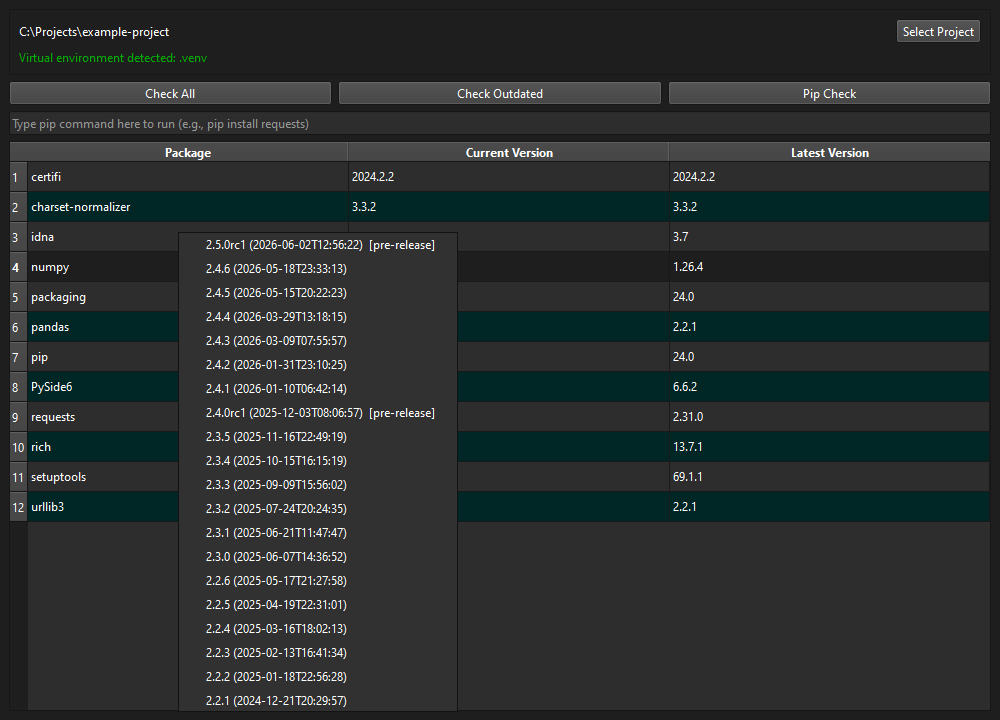
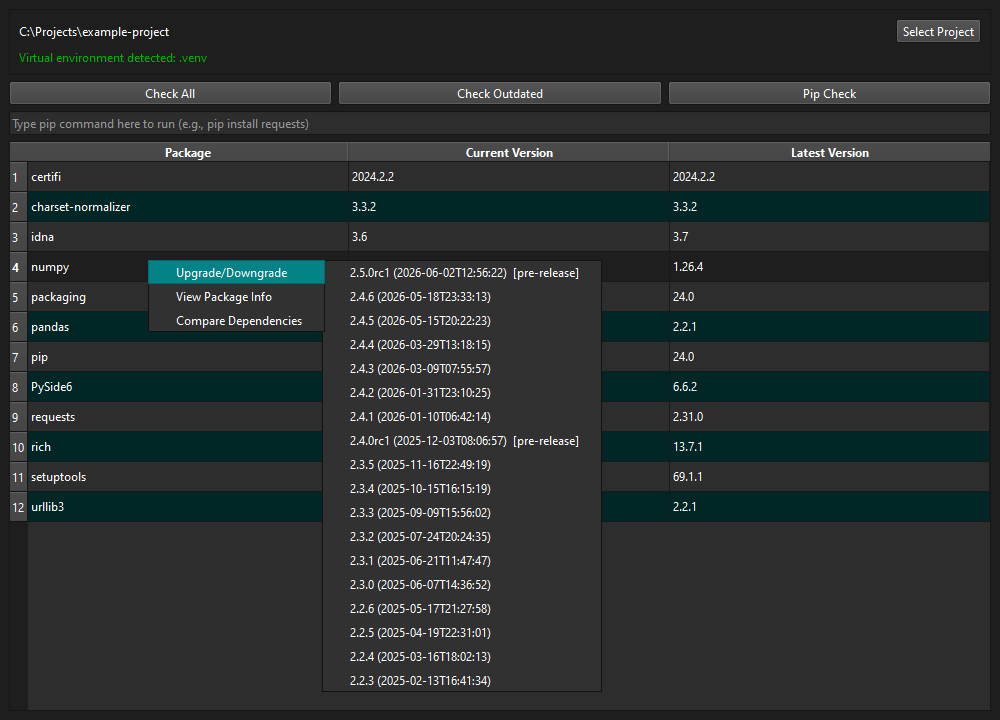
Show the full right-click flow and move the menu screenshot up
Replace the version-list-only image with a composite of the right-click
context menu (Upgrade/Downgrade highlighted) cascading into the live version
list, and move it directly below the main screenshot instead of down in the
Usage section.

Changed region(s): [[0.124, 0.3056, 0.62, 1.0]]

diff --git a/README.md b/README.md
@@ -6,6 +6,12 @@ JSON API, built with PySide6.
 
 ![Python Package Checker screenshot](assets/screenshot.png)
 
+Right-click any package and choose **Upgrade / Downgrade** to install any
+version available on PyPI (newest first, with release dates and pre-release
+markers):
+
+![Right-click context menu and version list](assets/version-menu.png)
+
 ## Features
 
 - **Check All** — list every installed package with its current and latest version
@@ -42,12 +48,6 @@ python main.py
    command into the command bar and press Enter.
 3. Right-click any package row for upgrade/downgrade, package info, or a
    dependency comparison.
-
-Choosing **Upgrade / Downgrade** lists every version available on PyPI
-(newest first, with release dates and pre-release markers), so you can
-install any specific version:
-
-![Version selection menu](assets/version-menu.png)
 
 > All operations run against the **selected project's** interpreter, not the
 > environment this application itself runs in.